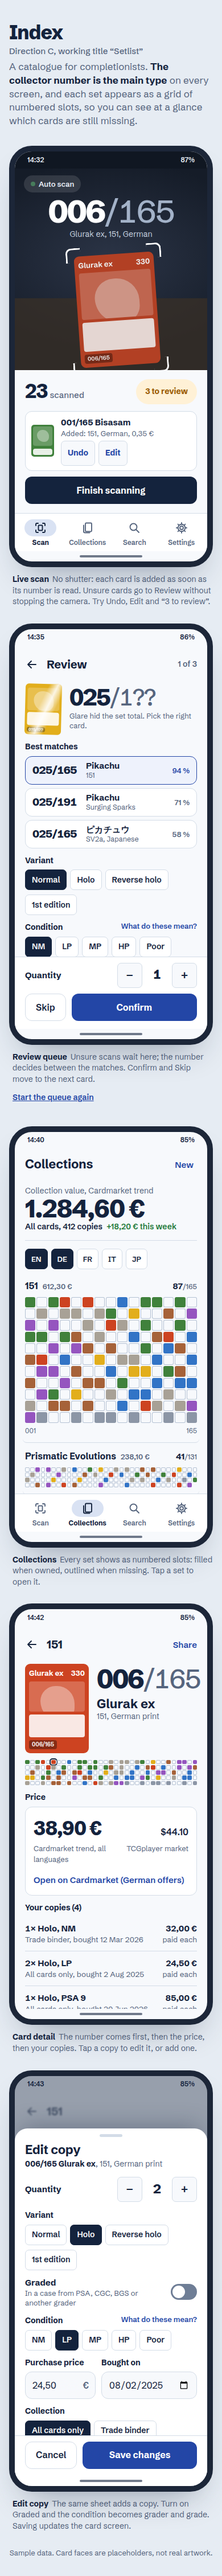
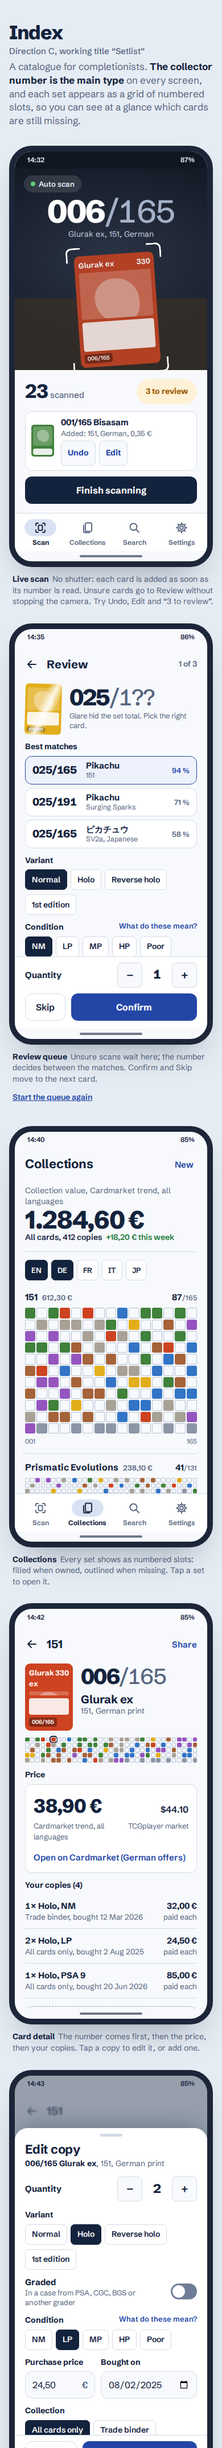
Mockups: set-detail layout fixes from second review
- Compact grid slots >= 44 px (6 columns, 5 at 360 px)
- Per-set language filter (All / EN / DE) drives counts and slots
- No clipping at 360 px; 'all languages' on every Cardmarket total
- Set sheet as peek bar that expands and dismisses
- One sample price table; review done state hides quantity

Refs #22

diff --git a/design/mockups/c-index-more.html b/design/mockups/c-index-more.html
@@ -17,6 +17,7 @@
   --r-lg:22px; --r-md:12px; --r-sm:7px;
 }
 *{box-sizing:border-box;margin:0}
+[hidden]{display:none!important}
 body{background:var(--page);color:var(--ink);font-family:"Schibsted Grotesk",system-ui,sans-serif;
   line-height:1.4;padding:40px 16px 32px}
 .num,.cand .n,.row-n{font-variant-numeric:tabular-nums}
@@ -159,11 +160,31 @@ h3{font-size:15px;font-weight:700;margin:16px 0 7px}
 .sethead .num{font-size:52px}
 .sethead p{font-size:14px;color:var(--muted)}
 .sethead .v{text-align:right;font-weight:700;font-size:17px}
+.sethead .v p{font-size:12.5px;font-weight:500;max-width:17ch;margin-left:auto;line-height:1.3}
+.slang{margin:-2px 0 2px}
+/* set-detail sheet: peek bar by default, expands on tap, can be dismissed */
+.ssheet{z-index:5;padding:0 0 18px}
+.peek{display:flex;align-items:center;gap:2px;padding:6px 6px 2px 4px}
+.pk{flex:1;min-width:0;min-height:56px;display:flex;align-items:center;gap:10px;background:none;border:0;border-radius:var(--r-md);text-align:left;padding:4px 6px 4px 12px;font-size:15px;color:var(--ink)}
+.pk .pt{flex:1;min-width:0;line-height:1.3}
+.pk .pt b{display:block;font-weight:800;font-variant-numeric:tabular-nums}
+.pk .pt span{display:block;font-size:14px;color:var(--muted)}
+.pk .grab{display:none;margin:0 auto}
+.pk svg,.peek svg{width:24px;height:24px;flex:none;fill:none;stroke:currentColor;stroke-width:1.9;stroke-linecap:round;stroke-linejoin:round}
+.ssheet.open .pk .pt{display:none}
+.ssheet.open .pk .grab{display:block}
+.ssheet.open .pk .chev{transform:rotate(180deg)}
+@media (prefers-reduced-motion:no-preference){.pk .chev{transition:transform .15s}}
+.ssheet .full{padding:2px 18px 6px}
+.ssheet:not(.open) .full{display:none}
+.sd .scroll{padding-bottom:18px}
+.sd.has-peek .scroll{padding-bottom:96px}
+.sd.has-open .scroll{padding-bottom:300px}
 /* compact grid: every slot is a 34px button; owned = filled + check, missing = dashed outline */
-.big{grid-template-columns:repeat(8,1fr);gap:4px;margin-top:12px}
-.big button{position:relative;aspect-ratio:1;min-height:32px;border:1.5px solid transparent;border-radius:5px;padding:0 0 3px 4px;display:flex;align-items:flex-end;font-size:11px;font-weight:700;font-variant-numeric:tabular-nums;color:#fff;background:none}
+.big{grid-template-columns:repeat(auto-fill,minmax(44px,1fr));gap:4px;margin-top:12px}
+.big button{position:relative;aspect-ratio:1;min-height:44px;border:1.5px solid transparent;border-radius:6px;padding:0 0 4px 6px;display:flex;align-items:flex-end;font-size:13px;font-weight:700;font-variant-numeric:tabular-nums;color:#fff;background:none}
 .big button.lt{color:var(--ink)}
-.big button.own::after{content:"";position:absolute;right:5px;top:6px;width:8px;height:4px;border:2px solid currentColor;border-top:0;border-right:0;transform:rotate(-45deg)}
+.big button.own::after{content:"";position:absolute;right:6px;top:8px;width:9px;height:5px;border:2px solid currentColor;border-top:0;border-right:0;transform:rotate(-45deg)}
 .big button.miss{border:1.5px dashed #6F7E96;color:#4B5A73;background:transparent}
 .big button.sel{outline:3px solid var(--ink);outline-offset:1px}
 .big button.off{opacity:.2}
@@ -177,7 +198,7 @@ h3{font-size:15px;font-weight:700;margin:16px 0 7px}
 .cards{display:none;grid-template-columns:repeat(4,1fr);gap:7px;margin-top:12px}
 .sd.v-cards .big{display:none}.sd.v-cards .cards{display:grid}
 .mini{border-radius:6px;padding:4px;display:flex;flex-direction:column;gap:3px;aspect-ratio:63/88;color:#fff;position:relative;overflow:hidden;border:0;text-align:left}
-.mini .nm{position:relative;z-index:1;font-size:8.5px;font-weight:700;white-space:nowrap;overflow:hidden;text-overflow:ellipsis;min-height:13px;background:rgba(20,35,61,.72);border-radius:3px;padding:0 3px;align-self:flex-start;max-width:100%}
+.mini .nm{position:relative;z-index:1;font-size:8.5px;font-weight:700;line-height:1.2;overflow-wrap:anywhere;min-height:13px;background:rgba(20,35,61,.72);border-radius:3px;padding:0 3px;align-self:flex-start;max-width:100%}
 .mini .nm:empty{background:none}
 .mini .art{flex:1;border-radius:3px;background:rgba(255,255,255,.24);position:relative;overflow:hidden}
 .mini .art::after{content:"";position:absolute;width:64%;aspect-ratio:1;border-radius:46% 54% 40% 60%;background:rgba(255,255,255,.4);left:18%;top:14%}
@@ -352,37 +373,25 @@ button.item:last-child{border-bottom:0}
 <!-- 5 Set detail -->
 <figure><div class="phone sd" data-view="compact">
   <div class="status"><span>9:31</span><span>93%</span></div>
-  <div class="scroll" style="padding-bottom:230px">
+  <div class="scroll">
     <div class="appbar"><button class="icon-btn" data-icon="back" aria-label="Back to collections"></button><h2>151</h2><button class="ghost">Share</button></div>
     <div class="sethead">
-      <div><p>English and German cards</p><div class="num">87<span>/165</span></div></div>
-      <div class="v">612,30 €<p>Cardmarket trend</p></div>
+      <div><p data-k="langtxt">English and German cards</p><div class="num" data-k="count">87<span>/165</span></div></div>
+      <div class="v"><span data-k="value">612,30 €</span><p>Cardmarket trend, all languages</p></div>
     </div>
+    <div class="chips slang" role="group" aria-label="Card language"><button class="chip sm" aria-pressed="true" data-l="all">All languages</button><button class="chip sm" aria-pressed="false" data-l="EN">EN</button><button class="chip sm" aria-pressed="false" data-l="DE">DE</button></div>
     <div class="setbar">
       <div class="seg" role="group" aria-label="View"><button aria-pressed="true" data-view="compact">Compact</button><button aria-pressed="false" data-view="cards">Cards</button></div>
       <div class="chips sfilter">
-        <button class="chip sm" aria-pressed="true" data-v="all">All</button><button class="chip sm" aria-pressed="false" data-v="owned">Owned 87</button><button class="chip sm" aria-pressed="false" data-v="missing">Missing 78</button>
+        <button class="chip sm" aria-pressed="true" data-v="all">All</button><button class="chip sm" aria-pressed="false" data-v="owned" data-k="nown">Owned 87</button><button class="chip sm" aria-pressed="false" data-v="missing" data-k="nmiss">Missing 78</button>
       </div>
     </div>
     <div class="slots big" role="group" aria-label="151: 87 of 165 owned"></div>
     <div class="cards" aria-label="151 cards, missing ones in black and white"></div>
-    <h3>Missing 78 cards, about 46 € to complete</h3>
-    <ul class="miss-list">
-      <li><span class="row-n">145</span><span>Zapdos ex</span><span>4,80 €</span></li>
-      <li><span class="row-n">124</span><span>Rossana ex</span><span>3,10 €</span></li>
-      <li><span class="row-n">115</span><span>Kangama ex</span><span>2,90 €</span></li>
-      <li><span class="row-n">024</span><span>Arbok ex</span><span>2,40 €</span></li>
-    </ul>
+    <h3 data-k="misshead">Missing 78 cards</h3>
+    <ul class="miss-list" data-k="misslist"></ul>
   </div>
-  <div class="sheet" role="region" aria-label="Selected card" aria-live="polite">
-    <div class="grab"></div>
-    <div class="sh">
-      <div class="card" data-k="face" style="background:var(--grass)" aria-hidden="true"><div class="nm"><span data-k="fname">Arbok ex</span></div><div class="art"></div><div class="tx"></div><div class="no" data-k="fno">024/165</div></div>
-      <div><div class="num" data-k="num">024<span>/165</span></div><h2 data-k="name">Arbok ex</h2><p data-k="own">Not in your collection yet</p><p class="pr"><span data-k="price">2,40 €</span> <span style="font-weight:500;color:var(--muted)">trend, all languages</span></p></div>
-    </div>
-    <div class="pair"><button class="secondary">Open on Cardmarket</button><button class="primary">Add copy</button></div>
-  </div>
-</div><figcaption><b>Set detail</b>Compact view: every slot is numbered. Switch to Cards to see the art; filter to see only what's missing.</figcaption></figure>
+</div><figcaption><b>Set detail</b>Compact view: every slot is numbered. Pick a language, filter to what's missing, tap a slot. The card shows as a bar you can open or close.</figcaption></figure>
 
 <!-- 5b Set detail, card view -->
 <figure><div class="phone sd" data-view="cards">
@@ -390,19 +399,20 @@ button.item:last-child{border-bottom:0}
   <div class="scroll">
     <div class="appbar"><button class="icon-btn" data-icon="back" aria-label="Back to collections"></button><h2>151</h2><button class="ghost">Share</button></div>
     <div class="sethead">
-      <div><p>English and German cards</p><div class="num">87<span>/165</span></div></div>
-      <div class="v">612,30 €<p>Cardmarket trend</p></div>
+      <div><p data-k="langtxt">English and German cards</p><div class="num" data-k="count">87<span>/165</span></div></div>
+      <div class="v"><span data-k="value">612,30 €</span><p>Cardmarket trend, all languages</p></div>
     </div>
+    <div class="chips slang" role="group" aria-label="Card language"><button class="chip sm" aria-pressed="true" data-l="all">All languages</button><button class="chip sm" aria-pressed="false" data-l="EN">EN</button><button class="chip sm" aria-pressed="false" data-l="DE">DE</button></div>
     <div class="setbar">
       <div class="seg" role="group" aria-label="View"><button aria-pressed="true" data-view="compact">Compact</button><button aria-pressed="false" data-view="cards">Cards</button></div>
       <div class="chips sfilter">
-        <button class="chip sm" aria-pressed="true" data-v="all">All</button><button class="chip sm" aria-pressed="false" data-v="owned">Owned 87</button><button class="chip sm" aria-pressed="false" data-v="missing">Missing 78</button>
+        <button class="chip sm" aria-pressed="true" data-v="all">All</button><button class="chip sm" aria-pressed="false" data-v="owned" data-k="nown">Owned 87</button><button class="chip sm" aria-pressed="false" data-v="missing" data-k="nmiss">Missing 78</button>
       </div>
     </div>
     <div class="slots big" role="group" aria-label="151: 87 of 165 owned"></div>
     <div class="cards" aria-label="151 cards, missing ones in black and white"></div>
   </div>
-</div><figcaption><b>Set detail, cards</b>The same set with card art. Missing cards stay in place in black and white, so you know what to look for.</figcaption></figure>
+</div><figcaption><b>Set detail, cards</b>The same set with card art. Missing cards stay in place in black and white. Tap a card to see it in the bar.</figcaption></figure>
 
 <!-- 6 Custom collection -->
 <figure><div class="phone">
@@ -410,7 +420,7 @@ button.item:last-child{border-bottom:0}
   <div class="scroll">
     <div class="appbar"><button class="icon-btn" data-icon="back" aria-label="Back to collections"></button><h2>Trade binder</h2><button class="ghost">Edit</button></div>
     <div class="total">
-      <p>Collection value, Cardmarket trend</p>
+      <p>Collection value, Cardmarket trend, all languages</p>
       <div class="num">212,00 €</div>
       <p class="sum">36 cards <span class="up">+3,40 € this week</span></p>
     </div>
@@ -432,7 +442,7 @@ button.item:last-child{border-bottom:0}
   <div class="status"><span>9:44</span><span>92%</span></div>
   <div class="behind" aria-hidden="true">
     <div class="top"><h2>Collections</h2></div>
-    <div class="total"><p>Collection value, Cardmarket trend</p><div class="num">1.284,60 €</div><p class="sum">All cards, 412 copies</p></div>
+    <div class="total"><p>Collection value, Cardmarket trend, all languages</p><div class="num">1.284,60 €</div><p class="sum">All cards, 412 copies</p></div>
   </div>
   <div class="scrim"></div>
   <div class="sheet tall" role="dialog" aria-label="New collection">
@@ -508,6 +518,8 @@ const $=id=>document.getElementById(id);
 // shared: icons for nav and app bars, gesture inset on every phone
 const ICON={
   back:'<path d="M19 12H5M11 6l-6 6 6 6"/>',
+  close:'<path d="M6 6l12 12M18 6 6 18"/>',
+  up:'<path d="m6 15 6-6 6 6"/>',
   scan:'<path d="M4 8V5.5A1.5 1.5 0 0 1 5.5 4H8M16 4h2.5A1.5 1.5 0 0 1 20 5.5V8M20 16v2.5a1.5 1.5 0 0 1-1.5 1.5H16M8 20H5.5A1.5 1.5 0 0 1 4 18.5V16"/><rect x="8.5" y="7.5" width="7" height="9" rx="1"/>',
   collections:'<rect x="8" y="3.5" width="11" height="15" rx="1.5"/><path d="M5 7.5v11a2 2 0 0 0 2 2h8.5"/>',
   search:'<circle cx="10.5" cy="10.5" r="6"/><path d="m15 15 5 5"/>',
@@ -579,29 +591,80 @@ const col=t=>`var(--${t})`;
 const owned=n=>[1,6,25,151].includes(n)||((n*37)%100)<52;
 const NAMES={1:'Bisasam',2:'Bisaknosp',3:'Bisaflor ex',4:'Glumanda',5:'Glutexo',6:'Glurak ex',7:'Schiggy',8:'Schillok',9:'Turtok ex',10:'Raupy',13:'Hornliu',16:'Taubsi',19:'Rattfratz',23:'Rettan',24:'Arbok ex',25:'Pikachu',26:'Raichu',35:'Piepi',39:'Pummeluff',52:'Mauzi',54:'Enton',58:'Fukano',63:'Abra',65:'Simsala ex',74:'Kleinstein',92:'Nebulak',94:'Gengar',115:'Kangama ex',124:'Rossana ex',129:'Karpador',130:'Garados',133:'Evoli',143:'Relaxo',145:'Zapdos ex',150:'Mewtu',151:'Mew ex'};
 const LIGHT=['lightning','colorless','trainer'];
-const price=n=>((n*7)%23*0.35+0.2).toFixed(2).replace('.',',')+' €';
+// one price table for every place a card price appears (sample data)
+const PRICE={1:0.35,3:3.20,6:38.90,9:4.10,24:2.40,25:0.90,65:3.60,115:2.90,124:3.10,145:4.80,151:17.60};
+const priceVal=n=>PRICE[n]??((n*7)%11)*0.05+0.10;
+const eur=v=>v.toFixed(2).replace('.',',')+' €';
+const price=n=>eur(priceVal(n));
+// owned copies per language, derived deterministically: EN 52, DE 61, together 87
+const OWNED=[];for(let n=1;n<=165;n++)if(owned(n))OWNED.push(n);
+const LANGS={};OWNED.forEach((n,r)=>{const p=(r*31)%OWNED.length;LANGS[n]=p<26?['EN','DE']:p<52?['EN']:['DE'];});
+const ownedIn=(n,l)=>l==='all'?owned(n):!!(LANGS[n]&&LANGS[n].includes(l));
+const SETVAL={all:'612,30 €',EN:'268,90 €',DE:'343,40 €'};
+const LANGTXT={all:'English and German cards',EN:'English cards',DE:'German cards'};
+const LNAME={EN:'English',DE:'German'};
+const nm=n=>NAMES[n]||'Card '+String(n).padStart(3,'0');
+let sheetSeq=0;
 document.querySelectorAll('.sd').forEach(ph=>{
-  const big=ph.querySelector('.big'),cards=ph.querySelector('.cards'),sheet=ph.querySelector('.sheet');
-  const show=n=>{if(!sheet)return;const no=String(n).padStart(3,'0'),t=typeOf(n),k=x=>sheet.querySelector(`[data-k=${x}]`);
-    k('face').style.background=col(t);k('face').style.color=LIGHT.includes(t)?'var(--ink)':'#fff';
-    k('fname').textContent=NAMES[n]||'Card '+no;k('fno').textContent=no+'/165';
-    k('num').innerHTML=`${no}<span>/165</span>`;k('name').textContent=NAMES[n]||'Card '+no;
-    k('own').textContent=owned(n)?'In your collection':'Not in your collection yet';k('price').textContent=price(n);};
-  for(let n=1;n<=165;n++){const no=String(n).padStart(3,'0'),own=owned(n),t=typeOf(n),label=`${no} ${NAMES[n]||''}`.trim();
-    const i=document.createElement('button');i.textContent=no;i.dataset.n=n;
-    i.className=own?'own'+(LIGHT.includes(t)?' lt':''):'miss';
-    if(own)i.style.background=col(t);
-    i.setAttribute('aria-label',`${label}, ${own?'owned':'missing'}`);
-    if(n===24&&ph.dataset.view==='compact'){i.classList.add('sel');i.setAttribute('aria-pressed','true');}
-    i.onclick=()=>{big.querySelectorAll('.sel').forEach(x=>{x.classList.remove('sel');x.removeAttribute('aria-pressed');});
-      i.classList.add('sel');i.setAttribute('aria-pressed','true');show(n);};
-    big.appendChild(i);
-    const c=document.createElement('button');c.className='mini'+(own?'':' miss');c.style.background=col(t);
-    c.setAttribute('aria-label',`${label}, ${own?'owned':'missing'}`);
-    c.innerHTML=`<span class="nm">${NAMES[n]||''}</span><span class="art"></span><span class="no">${no}</span>${own?'':'<span class="tag">Missing</span>'}`;
-    c.onclick=()=>{cards.querySelectorAll('.sel').forEach(x=>x.classList.remove('sel'));c.classList.add('sel');show(n);};
-    cards.appendChild(c);}
-  if(sheet)show(24);
+  const big=ph.querySelector('.big'),cards=ph.querySelector('.cards'),k=x=>ph.querySelector(`[data-k=${x}]`);
+  const st={lang:'all',filter:'all',sel:ph.dataset.view==='compact'?24:null,open:false};
+  // sheet, built once per phone
+  const fid='setsheet'+(++sheetSeq);
+  ph.insertAdjacentHTML('beforeend',`<div class="sheet ssheet" role="region" aria-label="Selected card" hidden>
+    <div class="peek"><button class="pk" aria-expanded="false" aria-controls="${fid}"><span class="grab" aria-hidden="true"></span><span class="pt"></span><span class="chev">${svg(ICON.up)}</span></button><button class="icon-btn" data-close aria-label="Close card">${svg(ICON.close)}</button></div>
+    <div class="full" id="${fid}">
+      <div class="sh">
+        <div class="card" data-s="face" aria-hidden="true"><div class="nm"><span data-s="fname"></span></div><div class="art"></div><div class="tx"></div><div class="no" data-s="fno"></div></div>
+        <div><div class="num" data-s="num"></div><h2 data-s="name"></h2><p data-s="own"></p><p class="pr"><span data-s="price"></span> <span style="font-weight:500;color:var(--muted)">trend, all languages</span></p></div>
+      </div>
+      <div class="pair"><button class="secondary">Open on Cardmarket</button><button class="primary">Add copy</button></div>
+    </div></div>`);
+  const sheet=ph.querySelector('.ssheet'),s_=x=>sheet.querySelector(`[data-s=${x}]`),pk=sheet.querySelector('.pk');
+  const slotBtns=[],miniBtns=[];
+  for(let n=1;n<=165;n++){
+    const i=document.createElement('button');i.textContent=String(n).padStart(3,'0');
+    i.onclick=()=>{st.sel=n;st.open=false;paint();};big.appendChild(i);slotBtns.push(i);
+    const c=document.createElement('button');c.onclick=()=>{st.sel=n;st.open=false;paint();};cards.appendChild(c);miniBtns.push(c);}
+  function paintSheet(){
+    const n=st.sel;sheet.hidden=n==null;
+    ph.classList.toggle('has-peek',n!=null&&!st.open);ph.classList.toggle('has-open',n!=null&&st.open);
+    if(n==null)return;
+    const no=String(n).padStart(3,'0'),t=typeOf(n),own=ownedIn(n,st.lang),langs=LANGS[n]||[];
+    sheet.classList.toggle('open',st.open);pk.setAttribute('aria-expanded',st.open);
+    pk.setAttribute('aria-label',st.open?'Collapse card':`${no}/165 ${nm(n)}, ${own?'owned':'missing'}, ${price(n)}. Show card`);
+    sheet.querySelector('.pt').innerHTML=`<b>${no}/165 ${nm(n)}</b><span>${own?'Owned':'Missing'}, ${price(n)}</span>`;
+    s_('face').style.background=col(t);s_('face').style.color=LIGHT.includes(t)?'var(--ink)':'#fff';
+    s_('fname').textContent=nm(n);s_('fno').textContent=no+'/165';
+    s_('num').innerHTML=`${no}<span>/165</span>`;s_('name').textContent=nm(n);
+    s_('own').textContent=langs.length?`You have it in ${langs.map(l=>LNAME[l]).join(' and ')}`:'Not in your collection yet';
+    s_('price').textContent=price(n);}
+  function paint(){
+    const L=st.lang,f=st.filter;let nOwn=0;const miss=[];
+    for(let n=1;n<=165;n++){
+      const own=ownedIn(n,L),t=typeOf(n),no=String(n).padStart(3,'0'),label=`${no} ${NAMES[n]||''}`.trim()+`, ${own?'owned':'missing'}`;
+      own?nOwn++:miss.push(n);
+      const out=(f==='owned'&&!own)||(f==='missing'&&own),sel=st.sel===n;
+      const i=slotBtns[n-1];
+      i.className=(own?'own'+(LIGHT.includes(t)?' lt':''):'miss')+(sel?' sel':'')+(out?' off':'');
+      i.style.background=own?col(t):'';i.setAttribute('aria-label',label);
+      sel?i.setAttribute('aria-pressed','true'):i.removeAttribute('aria-pressed');
+      i.tabIndex=out?-1:0;out?i.setAttribute('aria-hidden','true'):i.removeAttribute('aria-hidden');
+      const c=miniBtns[n-1];c.className='mini'+(own?'':' miss')+(sel?' sel':'');c.style.background=col(t);
+      c.setAttribute('aria-label',label);c.hidden=out;
+      c.innerHTML=`<span class="nm">${NAMES[n]||''}</span><span class="art"></span><span class="no">${no}</span>${own?'':'<span class="tag">Missing</span>'}`;}
+    k('count').innerHTML=`${nOwn}<span>/165</span>`;k('value').textContent=SETVAL[L];k('langtxt').textContent=LANGTXT[L];
+    k('nown').textContent=`Owned ${nOwn}`;k('nmiss').textContent=`Missing ${165-nOwn}`;
+    big.setAttribute('aria-label',`151: ${nOwn} of 165 owned`);
+    if(k('misslist')){
+      const sum=miss.reduce((a,n)=>a+priceVal(n),0);
+      k('misshead').textContent=`Missing ${miss.length} cards, about ${Math.round(sum)} € to complete`;
+      k('misslist').innerHTML=miss.slice().sort((a,b)=>priceVal(b)-priceVal(a)).slice(0,4)
+        .map(n=>`<li><span class="row-n">${String(n).padStart(3,'0')}</span><span>${nm(n)}</span><span>${price(n)}</span></li>`).join('');}
+    paintSheet();}
+  pk.onclick=()=>{st.open=!st.open;paintSheet();};
+  sheet.querySelector('[data-close]').onclick=()=>{const n=st.sel;st.sel=null;st.open=false;paint();
+    const back=(ph.classList.contains('v-cards')?miniBtns:slotBtns)[n-1];if(back&&!back.hidden&&back.tabIndex!==-1)back.focus();};
+  sheet.addEventListener('keydown',e=>{if(e.key==='Escape'){if(st.open){st.open=false;paintSheet();pk.focus();}else sheet.querySelector('[data-close]').click();}});
   const setView=v=>{ph.classList.toggle('v-cards',v==='cards');
     ph.querySelectorAll('.seg button').forEach(b=>b.setAttribute('aria-pressed',b.dataset.view===v));};
   setView(ph.dataset.view);
@@ -609,10 +672,11 @@ document.querySelectorAll('.sd').forEach(ph=>{
   const f=ph.querySelector('.sfilter');
   f.addEventListener('click',e=>{const b=e.target.closest('button');if(!b)return;
     f.querySelectorAll('button').forEach(x=>x.setAttribute('aria-pressed',x===b));
-    const v=b.dataset.v;ph.classList.remove('f-owned','f-missing');if(v!=='all')ph.classList.add('f-'+v);
-    // compact grid keeps every position; filtered-out slots fade and leave the tab order
-    big.querySelectorAll('button').forEach(x=>{const out=(v==='owned'&&x.classList.contains('miss'))||(v==='missing'&&x.classList.contains('own'));
-      x.classList.toggle('off',out);x.tabIndex=out?-1:0;out?x.setAttribute('aria-hidden','true'):x.removeAttribute('aria-hidden');});});
+    st.filter=b.dataset.v;ph.classList.remove('f-owned','f-missing');if(st.filter!=='all')ph.classList.add('f-'+st.filter);paint();});
+  const lg=ph.querySelector('.slang');
+  lg.addEventListener('click',e=>{const b=e.target.closest('button');if(!b)return;
+    lg.querySelectorAll('button').forEach(x=>x.setAttribute('aria-pressed',x===b));st.lang=b.dataset.l;paint();});
+  paint();
 });
 // 3 no match: three sample causes
 const NM={

diff --git a/design/mockups/c-index.html b/design/mockups/c-index.html
@@ -17,6 +17,7 @@
   --r-lg:22px; --r-md:12px; --r-sm:7px;
 }
 *{box-sizing:border-box;margin:0}
+[hidden]{display:none!important}
 body{background:var(--page);color:var(--ink);font-family:"Schibsted Grotesk",system-ui,sans-serif;
   line-height:1.4;padding:40px 16px 32px}
 .num,.cand .n,.qty output{font-variant-numeric:tabular-nums}
@@ -230,7 +231,8 @@ h3{font-size:14px;font-weight:700;margin:12px 0 6px}
 @media (prefers-reduced-motion:reduce){.switch::after{transition:none}}
 .behind{flex:1;padding:4px 18px;filter:blur(1.5px);opacity:.6;overflow:hidden}
 .note{max-width:1520px;margin:28px auto 0;text-align:center;font-size:13px;color:var(--muted)}
-@media (max-width:420px){.intro h1{font-size:34px}.phone{height:740px}}
+@media (max-width:420px){.intro h1{font-size:34px}.phone{height:740px}
+  .dhead .card{width:84px}.dhead .num{font-size:38px}.dhead h2{font-size:20px}}
 </style>
 </head>
 <body>
@@ -279,7 +281,7 @@ h3{font-size:14px;font-weight:700;margin:12px 0 6px}
   <div class="scroll">
     <div class="top"><h2>Collections</h2><button class="ghost">New</button></div>
     <div class="total">
-      <p>Collection value, Cardmarket trend</p>
+      <p>Collection value, Cardmarket trend, all languages</p>
       <div class="num">1.284,60 €</div>
       <p class="sum">All cards, 412 copies <span class="up">+18,20 € this week</span></p>
     </div>
